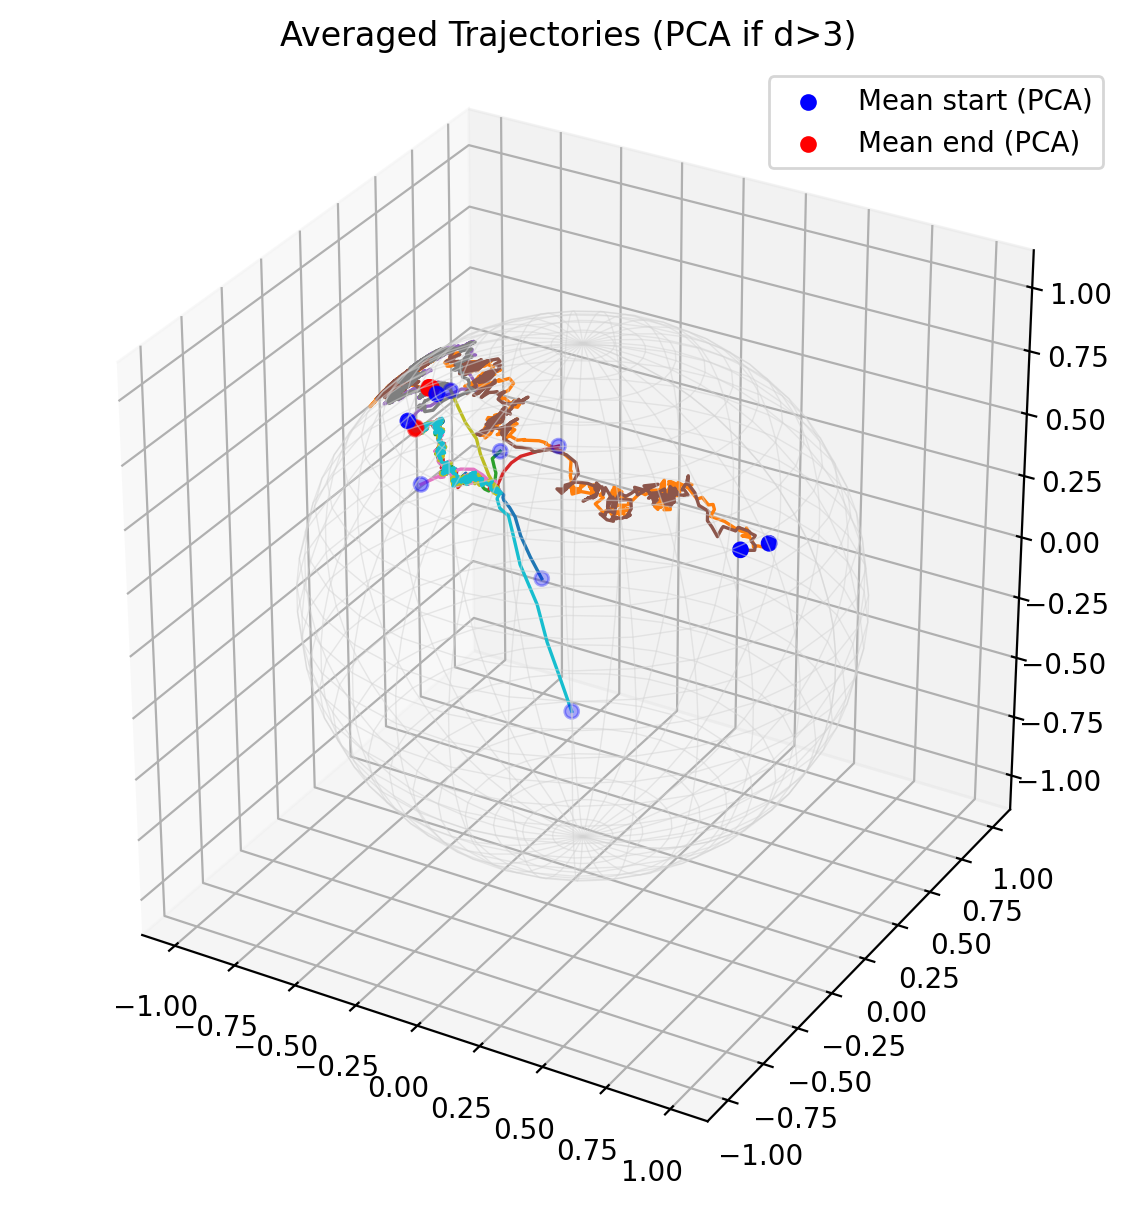
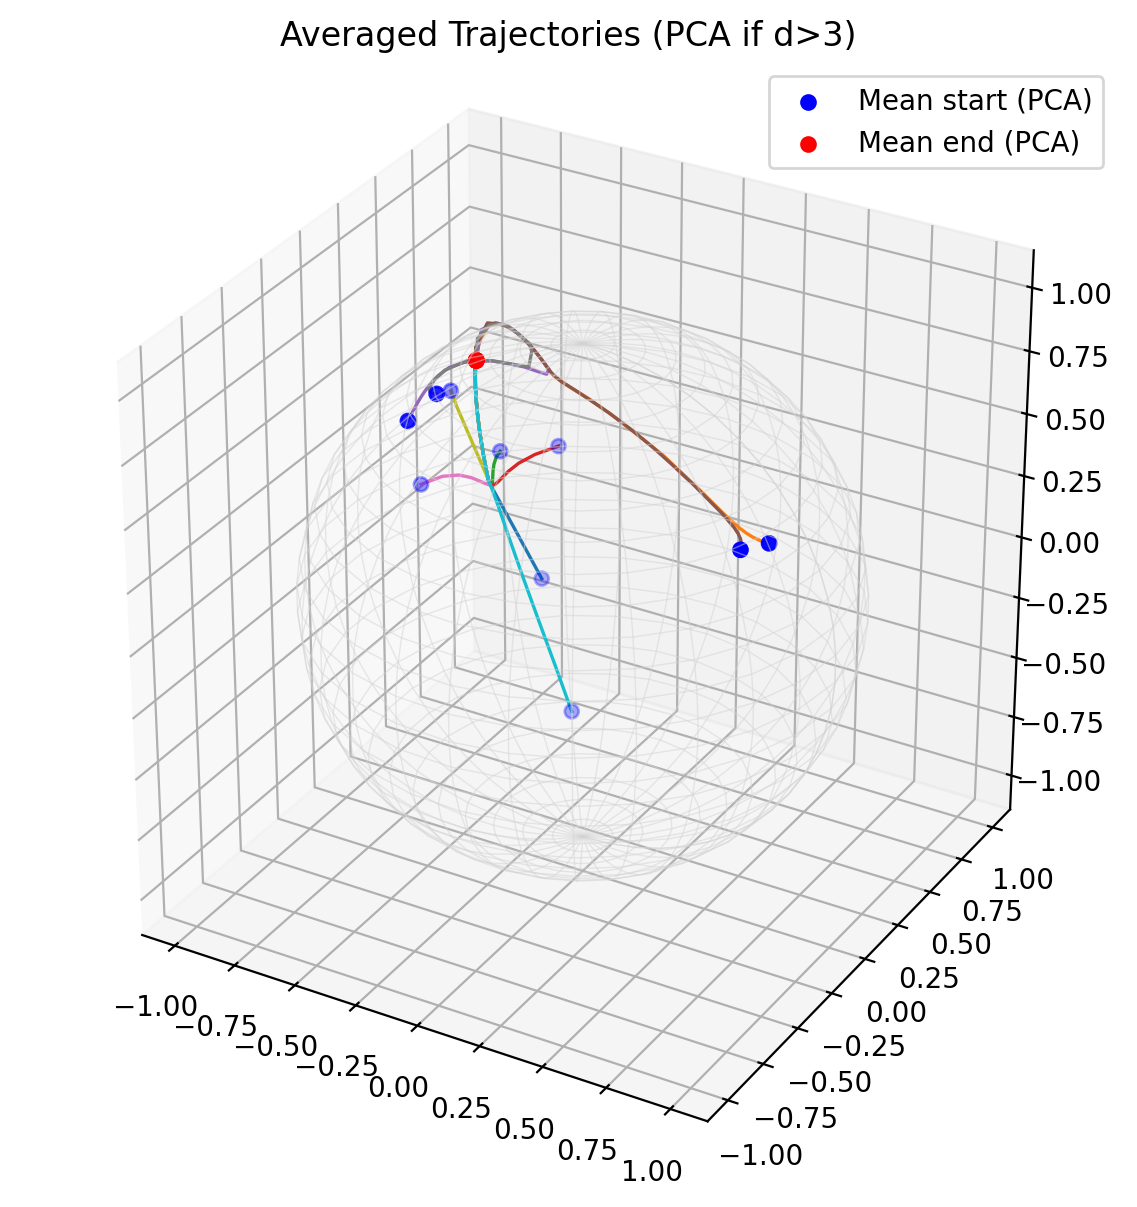
fixed plotting issues of convergence plot

Changed region(s): [[0.3386, 0.2759, 0.6772, 0.4905], [0.5233, 0.3372, 0.5541, 0.3679], [0.4617, 0.4905, 0.4925, 0.5211]]

diff --git a/bm_excludeoutliers.py b/bm_excludeoutliers.py
@@ -5,14 +5,7 @@ import os
 # TODO 1: plot final positions across different runs. ✅
 # TODO 2: compare this to the case of using extrinsic mean, for the same parameters. ✅
 # TODO 3: Added plotting code for d>3 ✅
-init_seed = 39
-
-'''
-def ginibre(d_in, d_out, rng, normalized=True):
-    G = rng.randn(d_in, d_out)           # i.i.d. N(0,1)
-    return G/np.sqrt(d_in) if normalized else G
-'''
-
+init_seed = 30
 def ensure_3d(Z):
     """
     Z: (m, q) with q<=3  -> (m,3) by zero-padding extra columns.
@@ -112,9 +105,6 @@ def dynamics(x, b=1.0, Q=None, K=None, V_mat=None):
     K = np.eye(d) if K is None else K
     V_mat = np.eye(d) if V_mat is None else V_mat
 
-    rng_w = np.random.RandomState(42)
-
-    
     q_all = (Q @ x.T).T          # (n,d)
     k_all = (K @ x.T).T          # (n,d)
     v_all = (V_mat @ x.T).T      # (n,d)
@@ -123,7 +113,7 @@ def dynamics(x, b=1.0, Q=None, K=None, V_mat=None):
     w = np.exp(b * inner)
     w /= w.sum(axis=1, keepdims=True)
     V = w @ v_all                # (n,d)
-    
+
     # project onto tangent at each x[i]
     return V - (np.sum(V * x, axis=1, keepdims=True)) * x
 
@@ -134,7 +124,7 @@ def simulate_intrinsic_noise(n, d, T, dt, b, Q, K, V_mat, sigma0,
                              store_stride=1):  
     steps = int(T/dt)
 
-    # number of stored frames (always include first)
+    # FIXED: number of stored frames (always include first)
     kept = steps // store_stride + 1
     all_traj = np.zeros((runs, kept, n, d), dtype=float) 
 
@@ -185,26 +175,71 @@ def simulate_intrinsic_noise(n, d, T, dt, b, Q, K, V_mat, sigma0,
     # Average trajectory over runs  (replaced by intrinsic mean over runs)
     # mean_traj = all_traj.mean(axis=0)  # (kept, n, d)
 
-    # intrinsic mean over runs (per time, per agent) with warm start + incremental refine
-    # a final stricter refine on the last frame
+    # ----- NEW: robust intrinsic mean over runs that excludes outliers -----
+    # Outlier rule: remove runs with large geodesic angle relative to the current center
+    # using a median + k * MAD cutoff (fallback: keep closest 75% if MAD collapses).
+    def angular_distances(u, X):
+        c = np.clip(X @ u, -1.0, 1.0)
+        return np.arccos(c)  # radians
+
+    def trim_mask_by_mad(thetas, k=3.0, min_keep=3, fallback_keep_frac=0.75):
+        thetas = np.asarray(thetas, float).ravel()
+        if thetas.size == 0:
+            return np.zeros_like(thetas, dtype=bool)
+        med = np.median(thetas)
+        mad = np.median(np.abs(thetas - med))
+        if mad <= 1e-15:
+            # MAD collapses: keep the smallest angles up to fallback_keep_frac
+            keep = max(min_keep, int(np.ceil(fallback_keep_frac * thetas.size)))
+            idx = np.argsort(thetas)[:keep]
+            mask = np.zeros_like(thetas, dtype=bool)
+            mask[idx] = True
+            return mask
+        cutoff = med + k * mad
+        mask = (thetas <= cutoff)
+        # ensure we don't drop too many
+        if mask.sum() < max(min_keep, int(np.ceil(fallback_keep_frac * thetas.size))):
+            keep = max(min_keep, int(np.ceil(fallback_keep_frac * thetas.size)))
+            idx = np.argsort(thetas)[:keep]
+            mask = np.zeros_like(thetas, dtype=bool)
+            mask[idx] = True
+        return mask
+
     mean_traj = np.zeros((kept, n, d), dtype=float)
-    # warm start at t=0 for each agent
+    # warm start at t=0 for each agent (trim + refine)
     for i in range(n):
-        pts0 = all_traj[:, 0, i, :]                       # (runs, d)
-        mean_traj[0, i] = intrinsic_mean_Sd(pts0, tol=1e-10, max_iter=50)
-    # incremental refine across stored frames
+        pts0 = all_traj[:, 0, i, :]                               # (runs, d)
+        u0  = intrinsic_mean_Sd(pts0, tol=1e-10, max_iter=50)
+        th0 = angular_distances(u0, pts0)
+        mask0 = trim_mask_by_mad(th0, k=3.0)
+        if mask0.sum() >= 1:
+            u0 = intrinsic_mean_refine(u0, pts0[mask0], iters=2, step=1.0)
+        mean_traj[0, i] = u0
+
+    # incremental refine across stored frames with trimming at each frame
     for t in range(1, kept):
         for i in range(n):
-            pts_t = all_traj[:, t, i, :]                  # (runs, d)
+            pts_t = all_traj[:, t, i, :]                          # (runs, d)
             u_prev = mean_traj[t-1, i]
-            mean_traj[t, i] = intrinsic_mean_refine(u_prev, pts_t, iters=mean_refine_steps, step=1.0)
+            th_t = angular_distances(u_prev, pts_t)
+            mask_t = trim_mask_by_mad(th_t, k=3.0)
+            if mask_t.sum() >= 1:
+                mean_traj[t, i] = intrinsic_mean_refine(u_prev, pts_t[mask_t], iters=2, step=1.0)
+            else:
+                mean_traj[t, i] = u_prev
 
-    # ***** CHANGED: give EVERY stored frame the same strict solve 
-    for t in range(kept):
-        for i in range(n):
-            pts_t = all_traj[:, t, i, :]
-            mean_traj[t, i] = intrinsic_mean_Sd(pts_t, tol=1e-12, max_iter=200)
-    # * end CHANGED
+    # final stricter refine on the last stored frame (with trimming)
+    for i in range(n):
+        pts_last = all_traj[:, -1, i, :]
+        u_last = mean_traj[-1, i]
+        th_last = angular_distances(u_last, pts_last)
+        mask_last = trim_mask_by_mad(th_last, k=3.0)
+        if mask_last.sum() >= 1:
+            # start from u_last for stability, then a stricter solve on trimmed set
+            u_last = intrinsic_mean_refine(u_last, pts_last[mask_last], iters=5, step=1.0)
+            u_last = intrinsic_mean_Sd(pts_last[mask_last], tol=1e-12, max_iter=200)
+        mean_traj[-1, i] = u_last
+    # ----- END NEW -----
 
     final_positions = all_traj[:, -1, :, :]  # (runs, n, d)
 
@@ -217,27 +252,18 @@ def euclidean_distance(x, y):
 
 # ----------  Convergence check & plots ----------
 if __name__ == "__main__":
-    n, d = 3, 3
-    T, dt = 500.0, 0.005
+    n, d = 10, 3
+    T, dt = 100.0, 0.005
     # b, sigma0 = 1.0, 0.2
-    b, sigma0 = 6.0, 0.0
+    b, sigma0 = 4.0, 0.0
     runs = 1
     
-    #init_seed = 39
+    init_seed = 30
     outdir = "plots"  
     os.makedirs(outdir, exist_ok=True)
 
     Q = np.eye(d); K = np.eye(d); V_mat = np.eye(d)
-    
-    # Q, K orthonormal
-    # V random
-    '''
-    Q = np.linalg.qr(np.random.randn(d, d))[0]
-    K = np.linalg.qr(np.random.randn(d, d))[0]
-    Q = np.random.randn(d, d) 
-    K = np.random.randn(d, d)  
-    V_mat = np.random.randn(d, d)   
-    '''
+
     mean_traj, final_positions = simulate_intrinsic_noise(
         n, d, T, dt, b, Q, K, V_mat, sigma0,
         runs=runs, mean_refine_steps=2,
@@ -252,14 +278,10 @@ if __name__ == "__main__":
     delta = np.zeros(steps)
     for k in range(steps):
         P = mean_traj[k]                     # (n,d)
-        # use geodesic pairwise distance
-        Pn = normalize_rows(P)               # keep numerically on the sphere
-        G = np.clip(Pn @ Pn.T, -1.0, 1.0)    # dot products
-        Theta = np.arccos(G)                 # pairwise angles in radians
-        delta[k] = Theta.max()
+        D = np.linalg.norm(P[:, None, :] - P[None, :, :], axis=2)
+        delta[k] = D.max()
 
-
-    threshold = 1e-2
+    threshold = 1e-1
     if delta[-1] < threshold:
         final_mean = mean_traj[-1]           # (n,d)
         center_raw = final_mean.mean(axis=0) # no projection
@@ -275,11 +297,11 @@ if __name__ == "__main__":
 
     # Plot max pairwise distance of the mean
     fig1 = plt.figure(figsize=(7,4))
-    plt.plot(times, delta, lw=1.5, label="Max pairwise geodesic distance (radians)")
+    plt.plot(times, delta, lw=1.5, label="Max pairwise distance (mean)")
     plt.axhline(threshold, color='red', ls='--', label="Threshold 1e-2")
     plt.yscale('log')
-    plt.xlabel("Time"); plt.ylabel("Max pairwise angle (rad)")
-    plt.title("Convergence of Averaged Trajectories (geodesic)")
+    plt.xlabel("Time"); plt.ylabel("Max pairwise distance")
+    plt.title("Convergence of Averaged Trajectories")
     plt.grid(True); plt.legend(); plt.tight_layout(); 
     fig1.savefig(os.path.join(outdir, f"convergence_seed{init_seed}_n=10_d=3_smallsigma.png"),
                  dpi=200, bbox_inches="tight")
